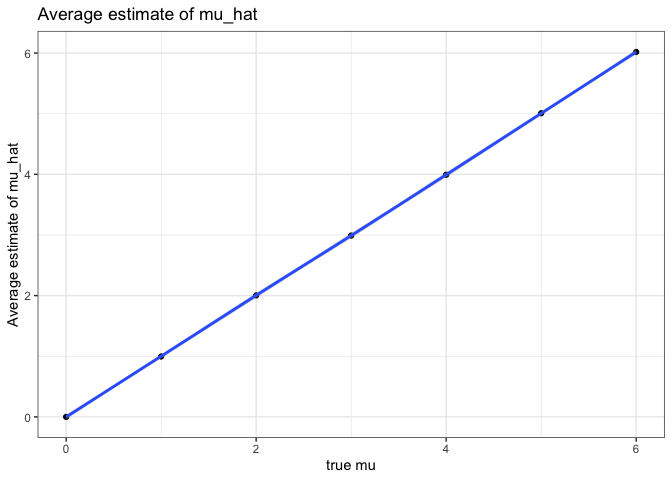
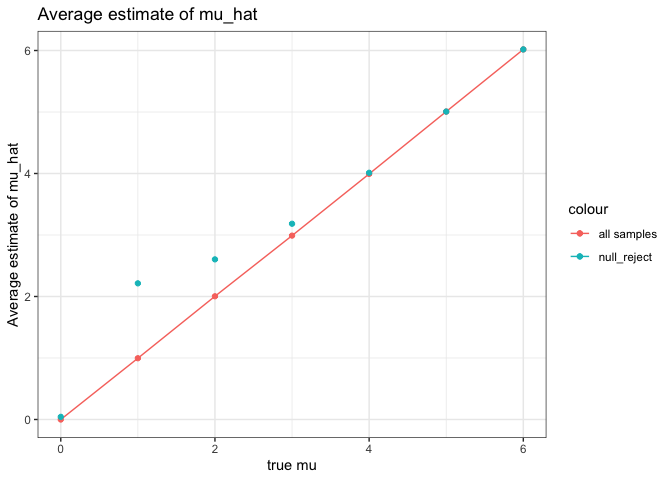
updated graph for problem 3.

diff --git a/mf3593.md b/mf3593.md
@@ -150,6 +150,7 @@ sim_results_2|>
   summarise(ratio=sum(null)/n())|>
   ggplot(aes(x=mu_value,y=ratio))+
   geom_point()+
+  geom_line()+
   labs(
     title="Effect size and power",
     x="true mu",
@@ -160,13 +161,22 @@ sim_results_2|>
 
 ![](mf3593_files/figure-gfm/unnamed-chunk-3-1.png)<!-- -->
 
+Power increases as the effect size(true mu) increases and approximates
+to 1 at 6.
+
 ``` r
+results_reject=sim_results_2|>
+  filter(p_value<0.05)|>
+  group_by(mu_value)|>
+  summarise(avg=mean(mu_hat))
+  
 sim_results_2|>
   group_by(mu_value)|>
   summarise(avg=mean(mu_hat))|>
-  ggplot(aes(x=mu_value,y=avg))+
+  ggplot(aes(x=mu_value,y=avg,color="all samples"))+
   geom_point()+
-  geom_smooth()+
+  geom_line()+
+  geom_point(data=results_reject,aes(y=avg,color="null_reject"))+
   labs(
     title="Average estimate of mu_hat",
     x="true mu",
@@ -176,24 +186,6 @@ sim_results_2|>
 ```
 
 ![](mf3593_files/figure-gfm/unnamed-chunk-4-1.png)<!-- -->
-
-``` r
-sim_results_2|>
-  filter(p_value<0.05)|>
-  group_by(mu_value)|>
-  summarise(avg=mean(mu_hat))|>
-  ggplot(aes(x=mu_value,y=avg))+
-  geom_point()+
-  geom_smooth()+
-  labs(
-    title="Average estimate of mu_hat for rejected null",
-    x="true mu",
-    y="Average estimate of mu_hat"
-  )+
-  theme_bw()
-```
-
-![](mf3593_files/figure-gfm/unnamed-chunk-4-2.png)<!-- -->
 
 The sample average of $\hat{\mu}$ across tests for which the null is
 rejected is still approximately equal to the true value of $\mu$. This
